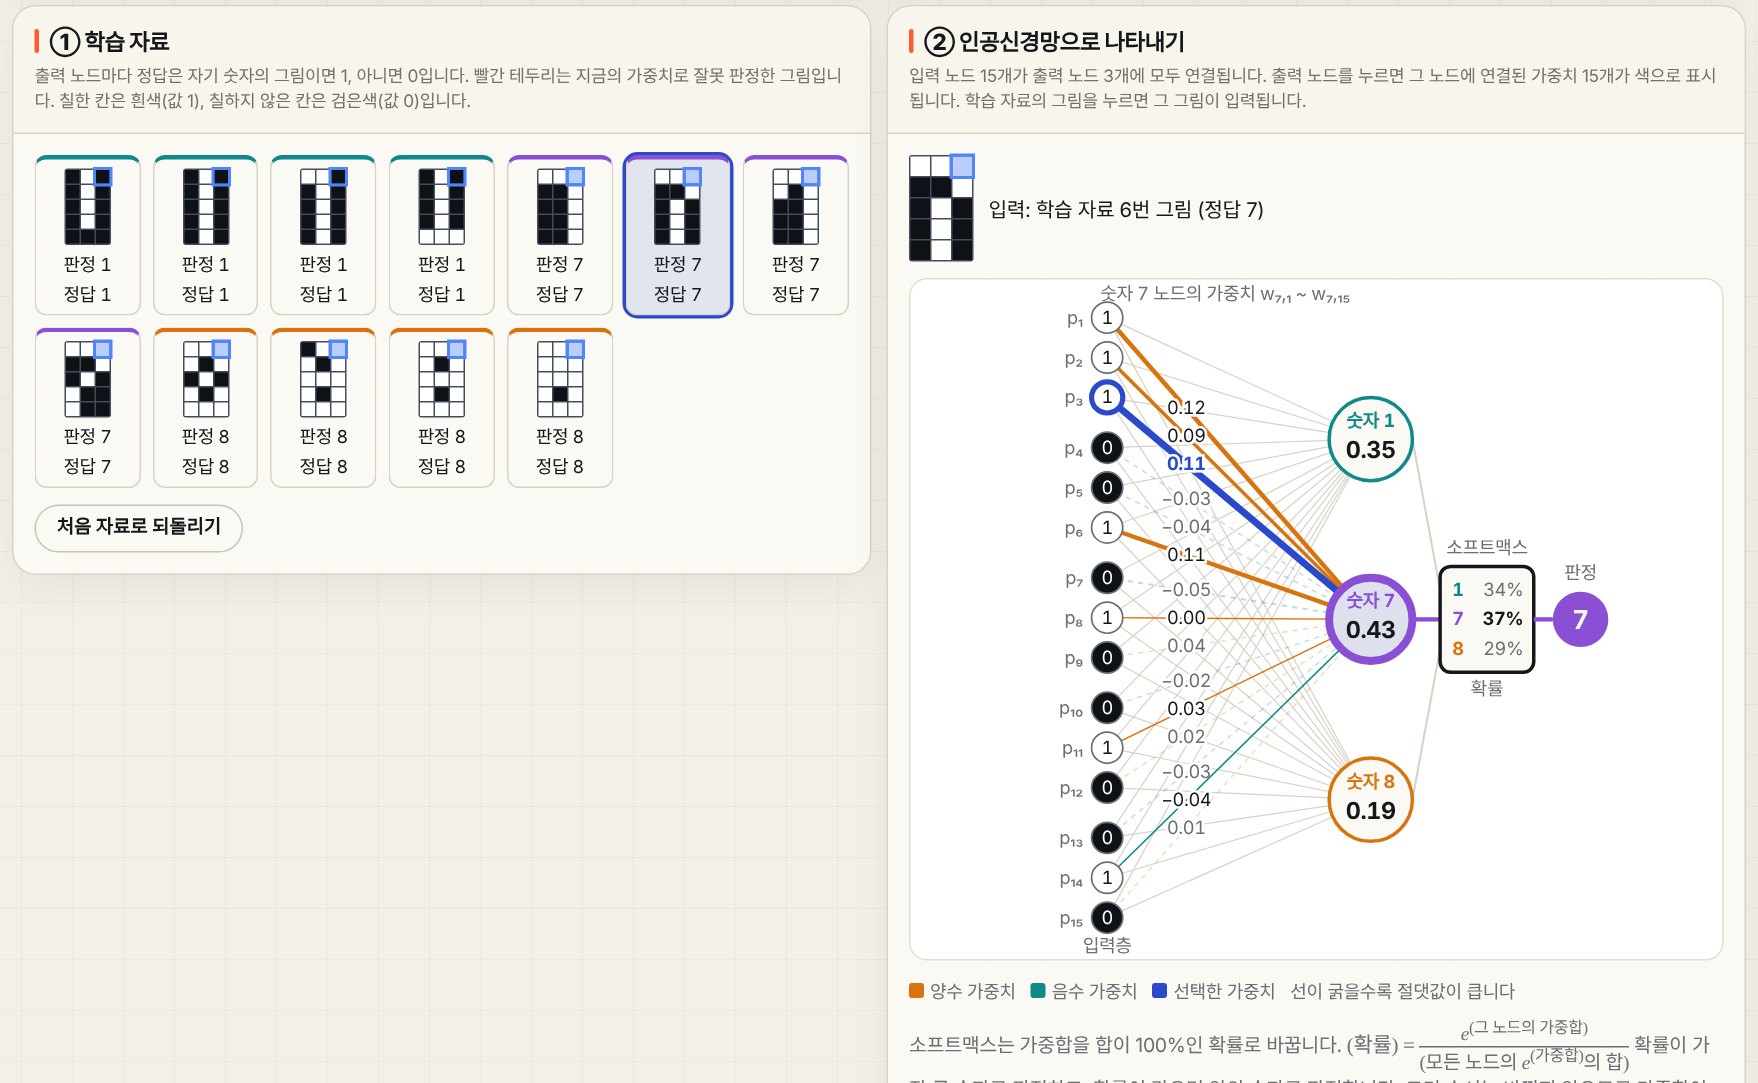
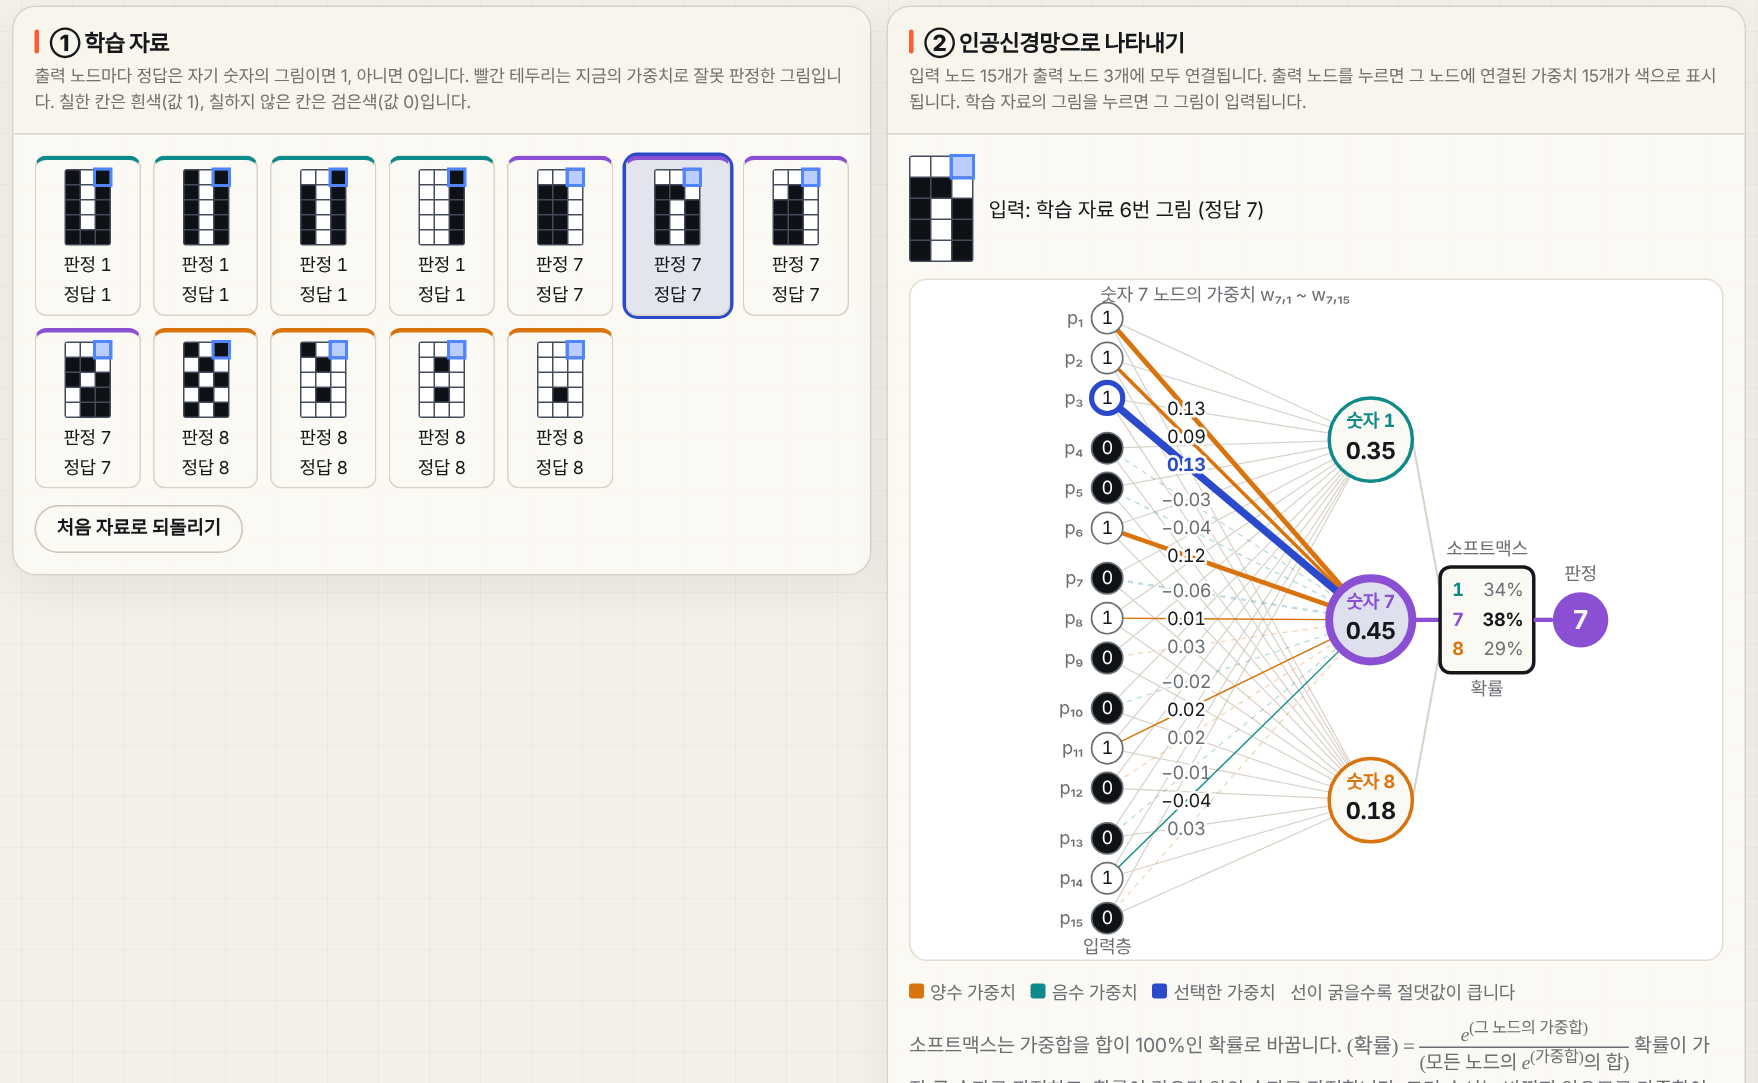
화소별 가중치 도구: 학습 자료 교체, 1장 정답을 −1과 1로 변경
- 받침 있는 1을 굵은 1로, 허리가 잘록한 8을 가는 8로 바꿔 칸 수만으로는
  구분되지 않게 함(2장이 1번 만에 끝나던 문제 해결: 1장 8번, 2장 8번, 3장 15번)
- 1장 정답을 숫자 1은 −1, 숫자 8은 1로 하고 판정 기준을 0으로 변경
- 1장의 '예측값'을 '가중합'으로 바꾸고 w₁p₁ + ⋯ + wₙpₙ으로 표기
- 1장 처음 선택 칸을 2행 3열로, 가중치 그래프 범위를 −1.2~1.2로 넓힘
- 계수 1·0을 생략해 식을 자연스럽게 표시, 썸네일 갱신

Claude-Session: https://claude.ai/code/session_01N6eLL5yNFCwKEhcGeGxwX6

diff --git a/digit-weights/index.html b/digit-weights/index.html
@@ -432,7 +432,7 @@
             <div class="fx tnum" id="expanded"></div>
             <div class="chart-wrap c-main"><canvas id="chart" role="img" aria-label="선택한 가중치에 대한 손실함수의 그래프"></canvas></div>
             <label for="wRange" class="hint" id="wLabel"></label>
-            <input type="range" id="wRange" min="-0.6" max="0.8" step="0.01" value="0">
+            <input type="range" id="wRange" min="-1.2" max="1.2" step="0.01" value="0">
             <div class="metrics">
               <div class="metric"><div class="label" id="lblW"></div><div class="value tnum" id="vW"></div></div>
               <div class="metric"><div class="label">접선의 기울기</div><div class="value tnum" id="vD"></div></div>
@@ -518,19 +518,19 @@
     [".#.",".#.",".#.",".#.","...",1],
     [".#.",".#.",".#.",".#.",".#.",1],
     ["##.",".#.",".#.",".#.",".#.",1],
-    [".#.",".#.",".#.",".#.","###",1],
+    ["##.","##.","##.","##.","##.",1],
     ["###","..#","..#","..#","..#",7],
     ["###","..#",".#.",".#.",".#.",7],
     ["###","#.#","..#","..#","..#",7],
     ["###","..#",".#.","#..","#..",7],
-    ["###","#.#",".#.","#.#","###",8],
+    [".#.","#.#",".#.","#.#",".#.",8],
     [".##","#.#","###","#.#","###",8],
     ["###","#.#","###","#.#","###",8],
     ["###","###","###","#.#","###",8]
   ];
   var CH=[{classes:[1,8],single:true},{classes:[1,8],single:false},{classes:[1,7,8],single:false}];
   var DCOL={1:"var(--one)",7:"var(--seven)",8:"var(--eight)"};
-  var TMIN=-0.25,TMAX=1.5,WMIN=-0.6,WMAX=0.8;
+  var TMIN=-1.5,TMAX=1.5,WMIN=-1.2,WMAX=1.2;
   var S=[],ci=0,cfg,cur,timer=null;
   var $=function(id){return document.getElementById(id)};
   function zeros(){var z=[];for(var i=0;i<15;i++)z.push(0);return z}
@@ -543,15 +543,15 @@
   function firstOf(d){for(var i=0;i<cur.data.length;i++)if(cur.data[i].c===d)return i;return 0}
   function fresh(c){
     var W=[],n=c.single?1:c.classes.length;for(var o=0;o<n;o++)W.push(zeros());
-    return {data:base(c),W:W,so:n-1,sk:0,feed:0,pad:zeros(),steps:0,hist:[]};
+    return {data:base(c),W:W,so:n-1,sk:c.single?5:0,feed:0,pad:zeros(),steps:0,hist:[]};
   }
   function sum(c){return c.reduce(function(s,v){return s+v},0)}
   function sums(c){return cur.W.map(function(w){var s=0;for(var k=0;k<15;k++)s+=w[k]*c[k];return s})}
-  function target(d,o){return cfg.single?(d.c===8?1:0):(d.c===cfg.classes[o]?1:0)}
+  function target(d,o){return cfg.single?(d.c===8?1:-1):(d.c===cfg.classes[o]?1:0)}
   function softmax(s){var m=Math.max.apply(null,s),e=s.map(function(v){return Math.exp(v-m)}),t=sum(e);return e.map(function(v){return v/t})}
   function pct(v){return Math.round(v*100)+"%"}
   function winner(s){var b=0;for(var i=1;i<s.length;i++)if(s[i]>s[b])b=i;return b}
-  function verdict(c){var s=sums(c);return cfg.single?(s[0]>=0.5?8:1):cfg.classes[winner(s)]}
+  function verdict(c){var s=sums(c);return cfg.single?(s[0]>0?8:1):cfg.classes[winner(s)]}
   function loss(){
     var t=0,n=cur.data.length;
     cur.data.forEach(function(d){var s=sums(d.cells);for(var o=0;o<s.length;o++){var e=s[o]-target(d,o);t+=e*e}});
@@ -587,22 +587,22 @@
   function renderText(){
     var O=nOut(),N=15*O,cls=cfg.classes.join(", ");
     $("intro").innerHTML=ci===0?
-      '3×5 격자의 칸마다 가중치를 하나씩 둡니다. 예측값은 <b>칠한 칸의 가중치를 모두 더한 값</b>이고, 0.5 이상이면 8, 미만이면 1로 판정합니다. 가중치는 15개지만, 하나만 골라 움직이면 손실함수는 그 가중치에 대한 이차함수입니다.':
+      '3×5 격자의 칸마다 가중치를 하나씩 둡니다. 칠한 칸의 가중치를 모두 더한 값을 <b>가중합</b>이라 하고, 가중합이 0보다 크면 8, 0 이하이면 1로 판정합니다. 가중치는 15개지만, 하나만 골라 움직이면 손실함수는 그 가중치에 대한 이차함수입니다.':
       ci===1?
       '같은 자료를 출력 노드 2개로 분류합니다. 숫자 1 노드와 숫자 8 노드가 각자 가중합을 구하고, 소프트맥스로 확률로 바꾼 뒤 <b>확률이 더 큰 숫자</b>로 판정합니다. 기준값 0.5가 필요 없어지고, 가중치는 15 × 2 = 30개가 됩니다.':
       '숫자 7을 추가하고 출력 노드를 3개로 늘립니다. 세 노드의 가중합을 소프트맥스로 확률로 바꾼 뒤 <b>확률이 가장 큰 숫자</b>로 판정하고, 가중치는 15 × 3 = 45개입니다. 숫자가 늘어나면 출력 노드만 더 두면 됩니다.';
     $("note1").innerHTML=cfg.single?
-      '정답은 숫자 1이면 <span class="m"><i>y</i> = 0</span>, 숫자 8이면 <span class="m"><i>y</i> = 1</span>입니다. 빨간 테두리는 지금의 가중치로 잘못 판정한 그림입니다. 칠한 칸은 흰색(값 1), 칠하지 않은 칸은 검은색(값 0)입니다.':
+      '정답은 숫자 1이면 <span class="m"><i>y</i> = −1</span>, 숫자 8이면 <span class="m"><i>y</i> = 1</span>입니다. 빨간 테두리는 지금의 가중치로 잘못 판정한 그림입니다. 칠한 칸은 흰색(값 1), 칠하지 않은 칸은 검은색(값 0)입니다.':
       '출력 노드마다 정답은 자기 숫자의 그림이면 1, 아니면 0입니다. 빨간 테두리는 지금의 가중치로 잘못 판정한 그림입니다. 칠한 칸은 흰색(값 1), 칠하지 않은 칸은 검은색(값 0)입니다.';
     $("form2").innerHTML=cfg.single?
-      '(예측값) = <i>w</i><sub>1</sub><i>p</i><sub>1</sub> + <i>w</i><sub>2</sub><i>p</i><sub>2</sub> + ⋯ + <i>w</i><sub>15</sub><i>p</i><sub>15</sub>':
-      '(숫자 8 노드의 가중합) = <i>w</i><sub>8,1</sub><i>p</i><sub>1</sub> + <i>w</i><sub>8,2</sub><i>p</i><sub>2</sub> + ⋯ + <i>w</i><sub>8,15</sub><i>p</i><sub>15</sub>';
-    $("note2").innerHTML='<span class="m"><i>p</i><sub><i>k</i></sub></span>는 <span class="m"><i>k</i></span>번째 칸을 칠했으면 1, 아니면 0입니다. '+(cfg.single?
-      '손실함수 <span class="m"><i>L</i></span>은 (예측값 − 정답)<sup>2</sup>의 평균입니다.':
+      '(가중합) = <i>w</i><sub>1</sub><i>p</i><sub>1</sub> + <i>w</i><sub>2</sub><i>p</i><sub>2</sub> + ⋯ + <i>w</i><sub><i>n</i></sub><i>p</i><sub><i>n</i></sub>':
+      '(숫자 8 노드의 가중합) = <i>w</i><sub>8,1</sub><i>p</i><sub>1</sub> + <i>w</i><sub>8,2</sub><i>p</i><sub>2</sub> + ⋯ + <i>w</i><sub>8,<i>n</i></sub><i>p</i><sub><i>n</i></sub>';
+    $("note2").innerHTML='<span class="m"><i>p</i><sub><i>k</i></sub></span>는 <span class="m"><i>k</i></span>번째 칸을 칠했으면 1, 아니면 0이고, <span class="m"><i>n</i></span>은 칸의 개수 15입니다. '+(cfg.single?
+      '손실함수 <span class="m"><i>L</i></span>은 (가중합 − 정답)<sup>2</sup>의 평균입니다.':
       '출력 노드마다 가중치 15개가 따로 있습니다. <span class="m"><i>w</i><sub>8,1</sub></span>은 숫자 8 노드와 1번째 칸을 잇는 가중치이고, <span class="m"><i>w</i><sub>1,1</sub></span>은 숫자 1 노드와 1번째 칸을 잇는 가중치입니다. 손실함수 <span class="m"><i>L</i></span>은 모든 그림, 모든 출력 노드의 (가중합 − 정답)<sup>2</sup>을 더해 그림의 수로 나눈 값입니다.');
     $("stepAll").textContent=N+"개 모두 한 번 이동";
     $("note3").innerHTML=cfg.single?
-      '칸 15개가 입력 노드입니다. 연결선마다 가중치가 하나씩 있고, 칠한 칸(값 1)의 가중치만 더해져 가중합이 됩니다. 활성화 함수는 가중합이 0.5 이상이면 1(숫자 8), 미만이면 0(숫자 1)을 출력합니다. 학습 자료의 그림을 누르면 그 그림이 입력됩니다.':
+      '칸 15개가 입력 노드입니다. 연결선마다 가중치가 하나씩 있고, 칠한 칸(값 1)의 가중치만 더해져 가중합이 됩니다. 활성화 함수는 가중합이 0보다 크면 1(숫자 8), 0 이하이면 −1(숫자 1)을 출력합니다. 학습 자료의 그림을 누르면 그 그림이 입력됩니다.':
       '입력 노드 15개가 출력 노드 '+O+'개에 모두 연결됩니다. 출력 노드를 누르면 그 노드에 연결된 가중치 15개가 색으로 표시됩니다. 학습 자료의 그림을 누르면 그 그림이 입력됩니다.';
     $("note3b").innerHTML=cfg.single?
       '손실함수는 활성화 함수를 거치기 전의 가중합과 정답의 차로 계산합니다. 계단 모양의 활성화 함수는 기울기가 0인 구간뿐이라 경사하강법에 쓸 수 없기 때문입니다.':
@@ -677,7 +677,7 @@
     }
     var foot='<text class="sub" x="'+ix+'" y="388" text-anchor="middle">입력층</text>';
     if(cfg.single){
-      var ox=196,ax=240,aw=40,qx=318,v=s[0],is8=v>=0.5,vc=is8?'var(--eight)':'var(--one)',mx=ax+aw/2;
+      var ox=196,ax=240,aw=40,qx=318,v=s[0],is8=v>0,vc=is8?'var(--eight)':'var(--one)',mx=ax+aw/2;
       h=edgeSet(0,ix,ox,oy,cells,ys,true)+nodes+foot+
         '<text class="sub" x="120" y="12" text-anchor="middle">가중치 w₁ ~ w₁₅</text>'+
         '<circle cx="'+ox+'" cy="'+oy+'" r="27" style="fill:var(--panel);stroke:var(--ink);stroke-width:2"/>'+
@@ -691,9 +691,9 @@
         '<polyline points="'+mx+','+(oy-11)+' '+(ax+aw-6)+','+(oy-11)+'" style="fill:none;stroke:'+(is8?'var(--eight)':'var(--line)')+';stroke-width:'+(is8?3.5:2)+'"/>'+
         '<text class="sub" x="'+mx+'" y="'+(oy-38)+'" text-anchor="middle">활성화</text>'+
         '<text class="sub" x="'+mx+'" y="'+(oy-26)+'" text-anchor="middle">함수</text>'+
-        '<text class="sub" x="'+mx+'" y="'+(oy+33)+'" text-anchor="middle">기준 0.5</text>'+
+        '<text class="sub" x="'+mx+'" y="'+(oy+33)+'" text-anchor="middle">기준 0</text>'+
         '<circle cx="'+qx+'" cy="'+oy+'" r="20" style="fill:'+vc+';stroke:'+vc+';stroke-width:2"/>'+
-        '<text class="big" x="'+qx+'" y="'+(oy+5.5)+'" text-anchor="middle" style="fill:var(--panel)">'+(is8?1:0)+'</text>'+
+        '<text class="big" x="'+qx+'" y="'+(oy+5.5)+'" text-anchor="middle" style="fill:var(--panel)">'+(is8?'1':'−1')+'</text>'+
         '<text class="sub" x="'+qx+'" y="'+(oy-28)+'" text-anchor="middle">출력</text>'+
         '<text x="'+qx+'" y="'+(oy+36)+'" text-anchor="middle" style="font-weight:700;font-size:12px;fill:'+vc+'">숫자 '+(is8?8:1)+'</text>';
     }else{
@@ -725,36 +725,38 @@
   }
   function polyHtml(c){
     var W=wSym();
-    return '<i>L</i>('+W+') = '+(c.A<0?'−':'')+trim(c.A)+W+'<sup>2</sup> '+(c.B<0?'− ':'+ ')+trim(c.B)+W+' + '+trim(c.C);
+    var cf=function(v){var t=trim(v);return t==='1'?'':t};
+    var bz=parseFloat(trim(c.B))===0;
+    return '<i>L</i>('+W+') = '+(c.A<0?'−':'')+cf(c.A)+W+'<sup>2</sup> '+(bz?'':(c.B<0?'− ':'+ ')+cf(c.B)+W+' ')+'+ '+trim(c.C);
   }
   function renderDerive(){
     var o=cur.so,k=cur.sk,W=wSym(),n=cur.data.length,m=0,h="";
     $("dTitle").innerHTML='<span class="m"><i>L</i>('+W+')</span>의 식이 만들어지는 과정';
-    var pv0=cfg.single?'예측값':'가중합',pk0='<i>p</i><sub>'+(k+1)+'</sub>';
+    var pv0='가중합',pk0='<i>p</i><sub>'+(k+1)+'</sub>';
     $("dIntro").innerHTML=(cfg.single?'':'<b style="color:'+DCOL[cfg.classes[o]]+'">'+nodeName(o)+'</b>의 계산입니다. ')+
       '그림마다 ①~④의 순서로 ('+pv0+' − 정답)<sup>2</sup>을 구합니다. <span class="m">'+W+'</span>'+jo('은','는')+' 파란 테두리 칸('+cellName(k)+')에 곱해지는 가중치입니다. '+
       '이 칸을 칠한 그림은 칸의 값이 1이라 '+pv0+'에 <span class="m">'+W+'</span>'+jo('이','가')+' 남고, 칠하지 않은 그림은 칸의 값이 0이라 <span class="m">'+W+'</span>'+jo('이','가')+' 사라집니다. '+
       pv0+'은 <span class="m">'+W+pk0+' + (나머지 칸의 가중합)</span>입니다. 나머지 칸의 가중합은 그 그림에서 칠한 다른 칸들의 가중치를 지금 값으로 더한 수입니다. 가중치가 모두 0인 처음에는 이 값이 0이라 식에서 생략하고, 학습이 진행되면 식에 나타납니다.'+
-      (cfg.single?' 정답은 숫자 8 그림이면 1, 숫자 1 그림이면 0입니다.':' 정답은 숫자 '+cfg.classes[o]+' 그림이면 1, 아니면 0입니다.');
-    var pv=cfg.single?'예측값':'가중합',pk='<i>p</i><sub>'+(k+1)+'</sub>';
+      (cfg.single?' 정답은 숫자 8 그림이면 1, 숫자 1 그림이면 −1입니다.':' 정답은 숫자 '+cfg.classes[o]+' 그림이면 1, 아니면 0입니다.');
+    var pv='가중합',pk='<i>p</i><sub>'+(k+1)+'</sub>';
     cur.data.forEach(function(d){
-      var p=d.cells[k],rest=sums(d.cells)[o]-cur.W[o][k]*p,t0=target(d,o),c=rest-t0,raw,fin,line2;
+      var p=d.cells[k],rest=sums(d.cells)[o]-cur.W[o][k]*p,t0=target(d,o),c=rest-t0,ts=t0<0?'(−'+(-t0)+')':String(t0),raw,fin,line2;
       var z=Math.abs(rest)<0.005,rs=fmt(rest,2).replace(/^−(.*)$/,'($&)');
       if(p){
         m++;
         var cs=fmt(Math.abs(c),2);
         line2=W+' × 1'+(z?'':' + '+rs);
-        raw='('+W+(z?' × 1':' + '+rs)+' − '+t0+')<sup>2</sup>';
+        raw='('+W+(z?' × 1':' + '+rs)+' − '+ts+')<sup>2</sup>';
         fin=parseFloat(cs)===0?W+'<sup>2</sup>':'('+W+(c<0?' − ':' + ')+(z?trim(c):cs)+')<sup>2</sup>';
       }else{
         line2=W+' × 0'+(z?' = 0':' + '+rs+' = '+fmt(rest,2));
-        raw='('+(z?'0':fmt(rest,2))+' − '+t0+')<sup>2</sup>';
+        raw='('+(z?'0':fmt(rest,2))+' − '+ts+')<sup>2</sup>';
         fin=z?trim(c*c):fmt(c*c,3);
       }
       h+='<div class="term '+(p?'has':'none')+'">'+mini(d.cells,k,true)+
         '<div class="st"><span class="lb">① 파란 테두리 칸의 값</span><span class="m">'+pk+' = '+p+'</span> <span>('+(p?'흰색, 칠함':'검은색, 칠하지 않음')+')</span></div>'+
         '<div class="st"><span class="lb">② '+pv+' = <span class="m" style="font-size:12.5px">'+W+pk+'</span>'+(z?'':' + (나머지 칸의 가중합)')+'</span><span class="m">'+line2+'</span>'+(z?'<span class="lb">나머지 칸의 가중합은 0이라 생략</span>':'')+'</div>'+
-        '<div class="st"><span class="lb">③ 정답</span><span class="m">'+t0+'</span> <span>(숫자 '+d.c+' 그림)</span></div>'+
+        '<div class="st"><span class="lb">③ 정답</span><span class="m">'+String(t0).replace("-","−")+'</span> <span>(숫자 '+d.c+' 그림)</span></div>'+
         '<div class="st"><span class="lb">④ ('+pv+' − 정답)<sup>2</sup></span><span class="m">'+raw+'</span><div class="fx tnum">= '+fin+'</div></div>'+
         '<span class="tag">'+(p?'<span class="m">'+W+'</span>에 대한 이차식':'<span class="m">'+W+'</span>'+jo('이','가')+' 없는 상수')+'</span></div>';
     });
@@ -784,9 +786,9 @@
   }
   function renderTrack(){
     if(!cfg.single)return;
-    var z=tpos(0.5);
+    var z=tpos(0);
     var h='<div class="zone1" style="width:'+z+'%"></div><div class="zone8" style="left:'+z+'%"></div>'+
-      '<div class="thr" style="left:'+z+'%"><span>기준 0.5</span></div>'+
+      '<div class="thr" style="left:'+z+'%"><span>기준 0</span></div>'+
       '<div class="lane" style="top:22px">정답 1</div><div class="lane" style="top:48px">정답 8</div>';
     cur.data.forEach(function(d){
       var wrong=verdict(d.cells)!==d.c;
@@ -823,7 +825,7 @@
     var ymax=Math.max(f(WMIN),f(WMAX),0.05)*1.08;
     var X=function(t){return ml+(t-WMIN)/(WMAX-WMIN)*(W-ml-mr)},Y=function(v){return mt+(1-v/ymax)*(H-mt-mb)};
     g.fillStyle=css("--sub");g.strokeStyle=css("--line");g.lineWidth=1;g.textAlign="center";
-    for(var i=-3;i<=4;i++){var t=i*0.2;g.beginPath();g.moveTo(X(t),mt);g.lineTo(X(t),H-mb);g.stroke();g.fillText(t.toFixed(1).replace("-","−"),X(t),H-mb+14)}
+    for(var i=-3;i<=3;i++){var t=i*0.4;g.beginPath();g.moveTo(X(t),mt);g.lineTo(X(t),H-mb);g.stroke();g.fillText(t.toFixed(1).replace("-","−"),X(t),H-mb+14)}
     g.textAlign="right";
     var ys=ymax/4;
     for(var j=0;j<=4;j++){var v=j*ys;g.beginPath();g.moveTo(ml,Y(v));g.lineTo(W-mr,Y(v));g.stroke();g.fillText(v.toFixed(2),ml-5,Y(v)+4)}
@@ -897,7 +899,7 @@
     b=document.createElement("button");b.type="button";b.className="cellbtn";b.dataset.i=i;
     b.setAttribute("aria-label",cellName(i));padEl.appendChild(b);
   }
-  var ax="";[0,0.5,1].forEach(function(v){ax+='<span style="left:'+tpos(v)+'%">'+v+'</span>'});$("axis2").innerHTML=ax;
+  var ax="";[-1,0,1].forEach(function(v){ax+='<span style="left:'+tpos(v)+'%">'+String(v).replace("-","−")+'</span>'});$("axis2").innerHTML=ax;
   window.addEventListener("hashchange",function(){var n=fromHash();if(n!==ci)show(n,true)});
   $("maps").addEventListener("click",function(e){var t=e.target.closest(".wcell");if(t)selectW(+t.dataset.o,+t.dataset.k)});
   $("net").addEventListener("click",function(e){
